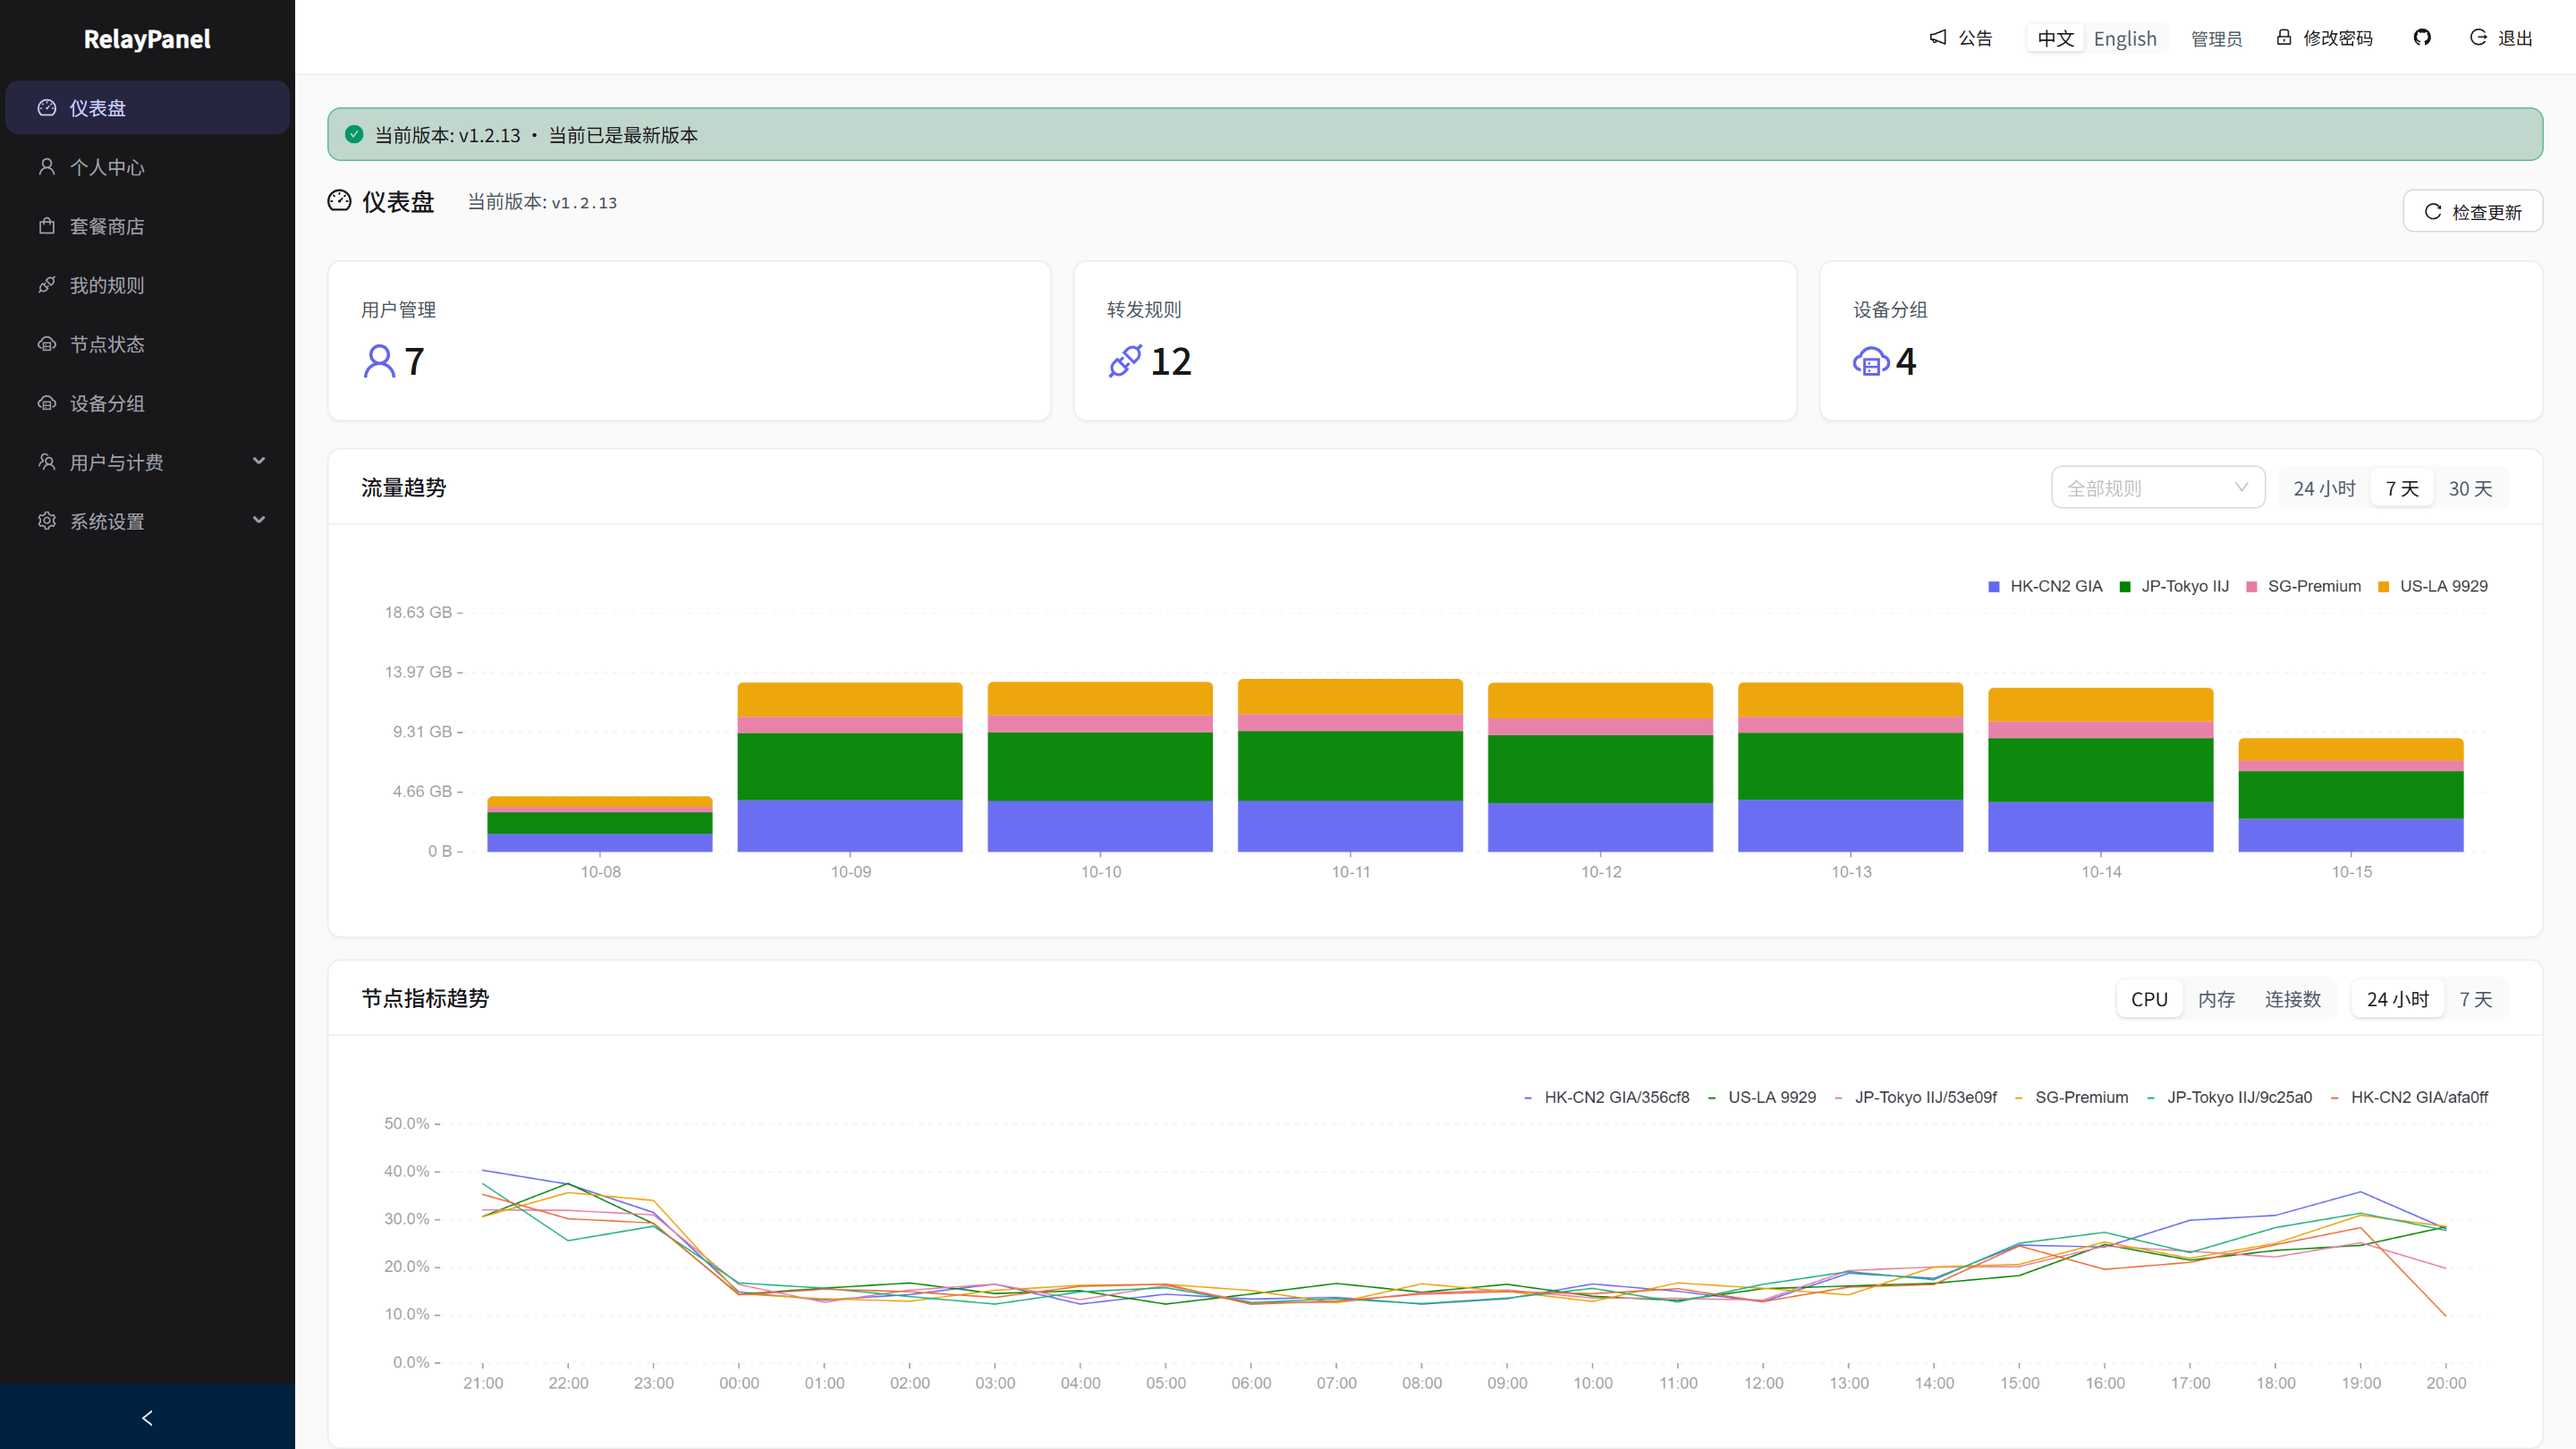
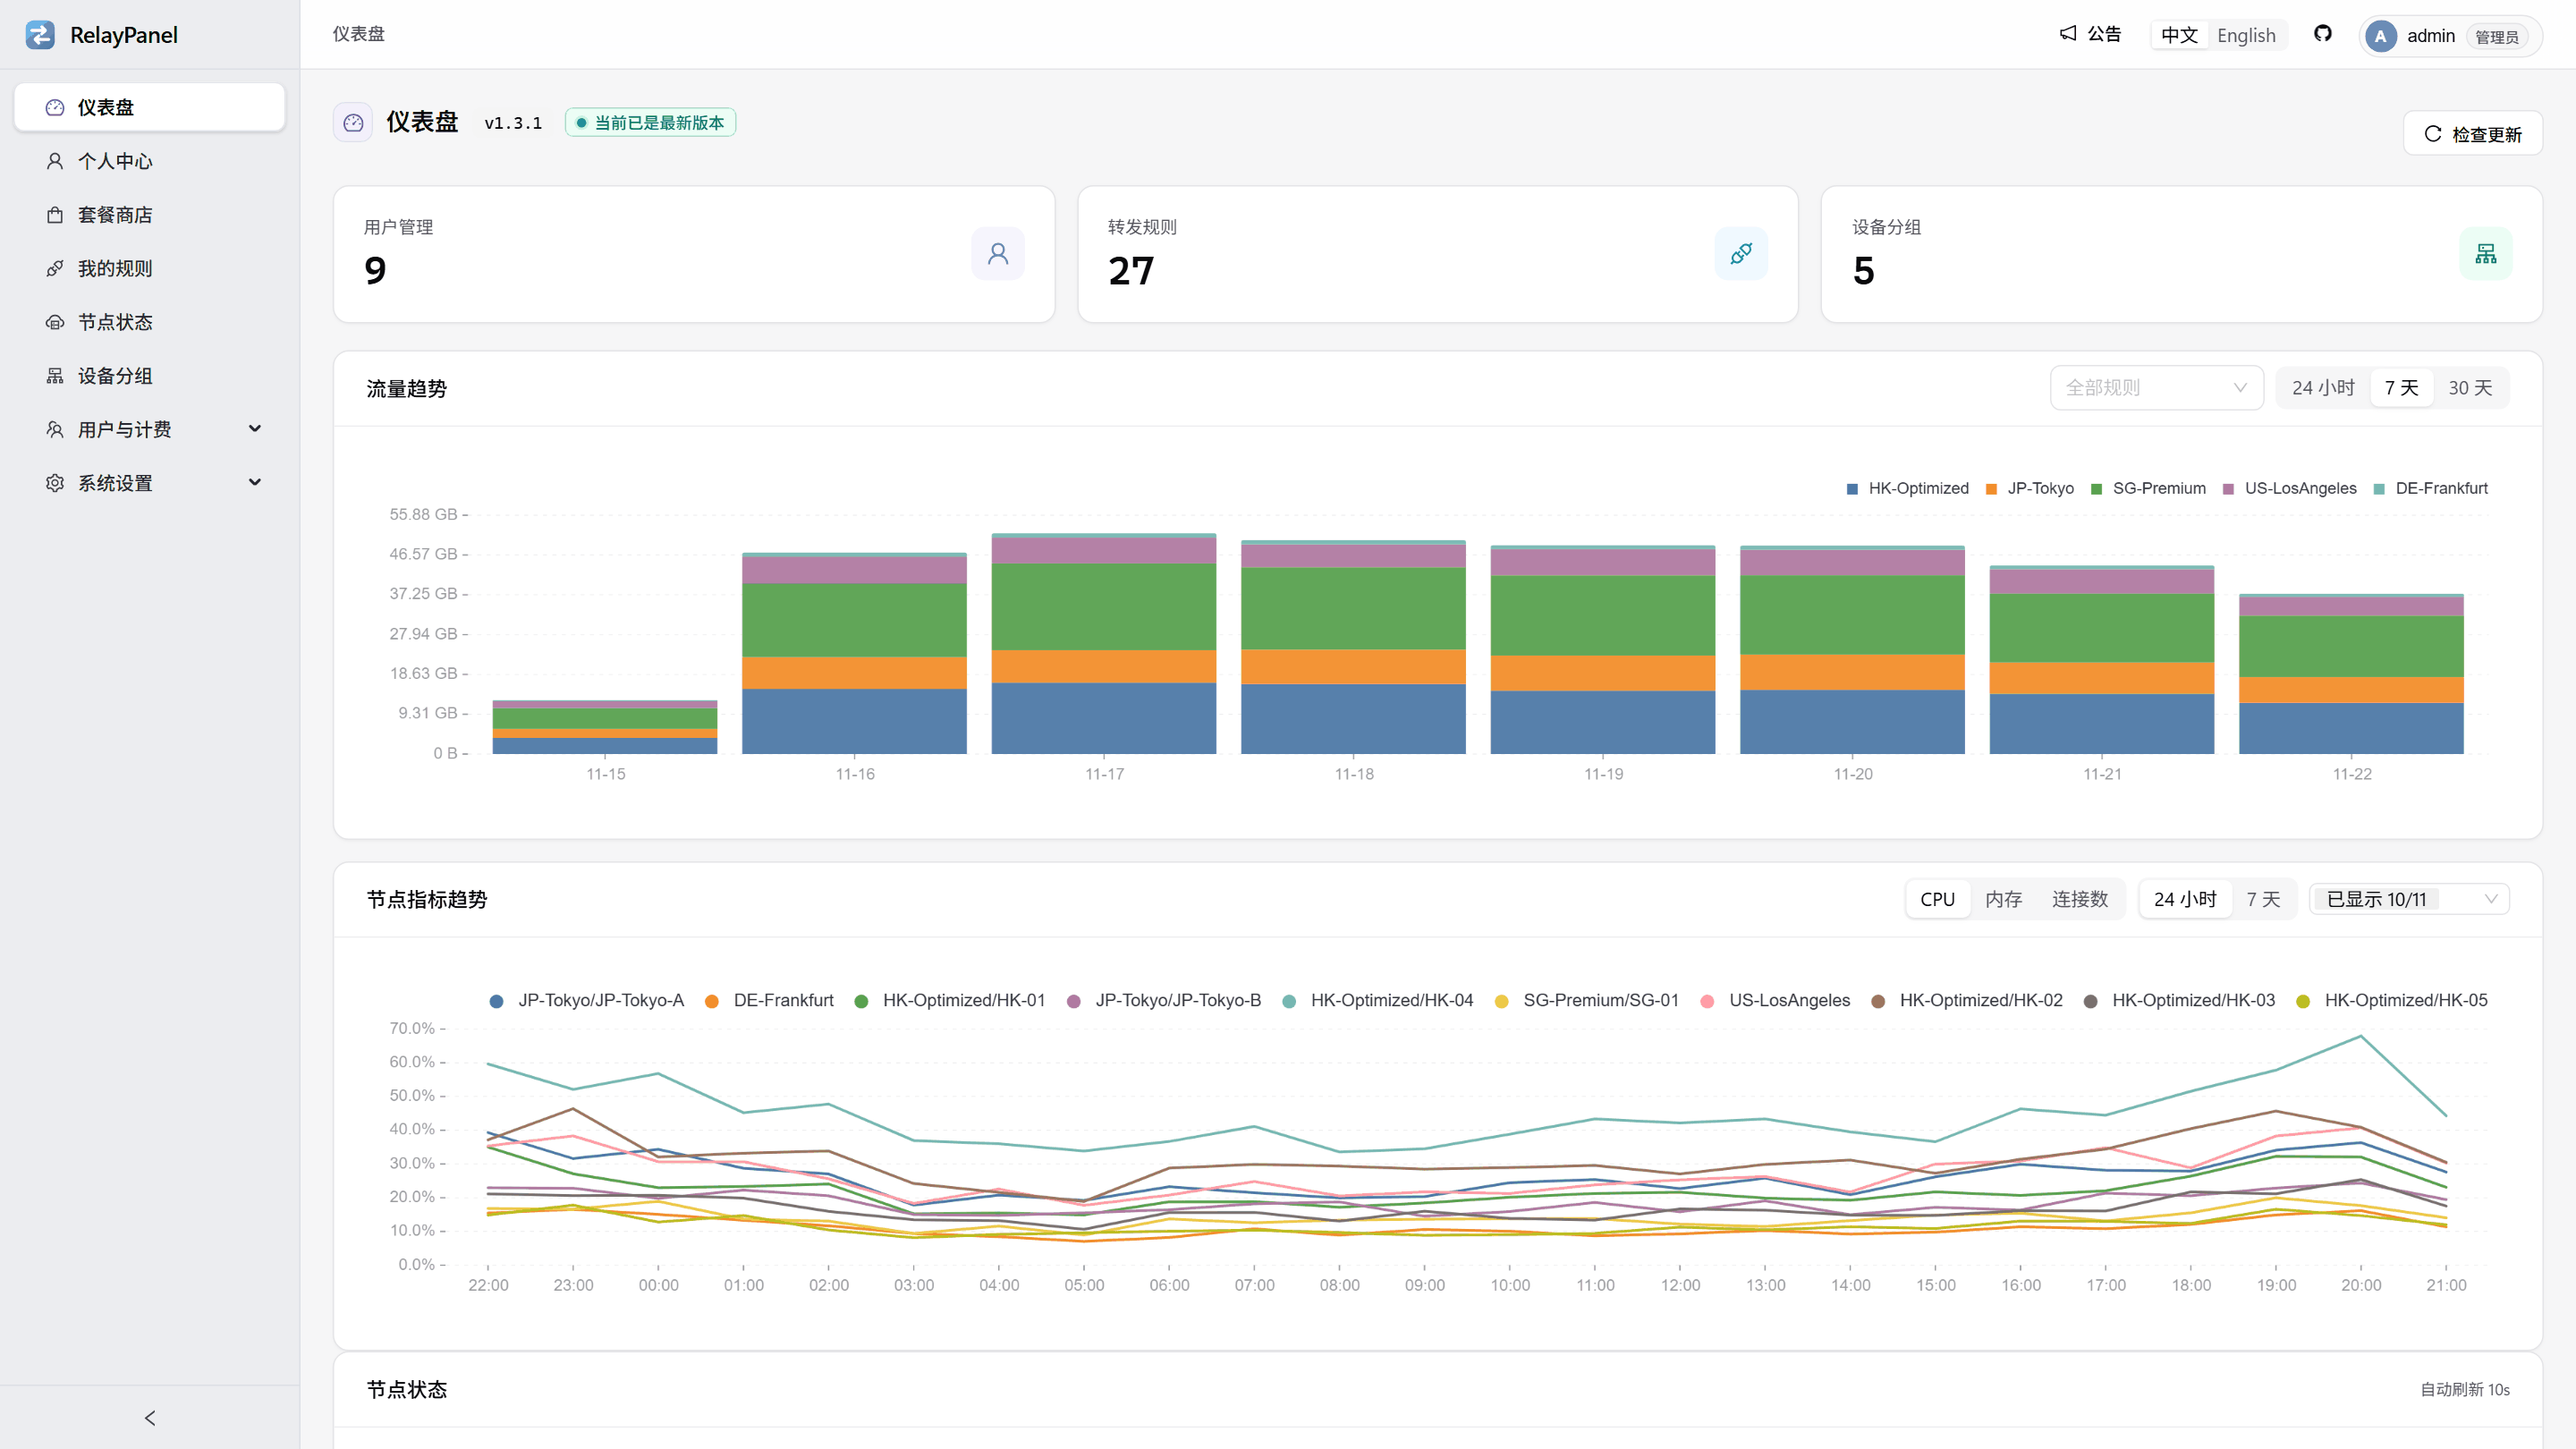
docs(readme): 1.3.1 screenshots, latency monitor and new-UI highlights
Retake all screenshots on the 1.3.1 UI (fictional demo data, documentation
address ranges only) and add the group latency page; list the latency monitor
and the redesigned UI among the highlights.

diff --git a/README.en.md b/README.en.md
@@ -33,8 +33,10 @@
 - 🛒 **Plans & billing** — self-service plan purchase and redeem-code top-ups; charged as `(upload + download) × line rate`; one plan per user, renewals stack and switching replaces
 - 📊 **Traffic visibility** — per-rule and per-user metering, with 1 / 7 / 30-day charts stacked by line so you can see which one is consuming the quota
 - 🖥 **Node management** — live CPU (with model) / memory / connections, region detection, Telegram or email alerts on offline, one-click upgrade from the panel (no SSH)
+- 📶 **Latency monitor** — each group's nodes probe carrier targets over TCP / ICMP for latency, loss and slow handshakes; a comparison matrix with a health overview and overall ranking, trend charts that can focus on one node, and recent-status strips that show when a line wobbled
 - 👤 **Users & groups** — manage any user's rules and plan, reset traffic or password, ban; device groups can be hidden, and removing a node doesn't affect rules
 - 🗄 **Deployment-friendly** — SQLite (zero-config) or PostgreSQL; panel and node both support amd64 / arm64; the panel works on a phone too
+- 🎨 **Redesigned UI** — a fresh look since v1.3.1, with a soft palette, clearer layout and one-click Chinese / English switching
 - 🔒 **Security** — first login forces password change; node auth via Bearer token
 
 Full feature reference and user docs: **[relaypanel.dev](https://relaypanel.dev)**
@@ -67,6 +69,12 @@ Full feature reference and user docs: **[relaypanel.dev](https://relaypanel.dev)
   <tr>
     <td><a href="docs/screenshots/en/shop.png"><img src="docs/screenshots/en/shop.png" alt="Shop" /></a></td>
     <td><a href="docs/screenshots/en/plans.png"><img src="docs/screenshots/en/plans.png" alt="Plans" /></a></td>
+  </tr>
+  <tr>
+    <th colspan="2">Latency Monitor</th>
+  </tr>
+  <tr>
+    <td colspan="2" align="center"><a href="docs/screenshots/en/latency.png"><img src="docs/screenshots/en/latency.png" alt="Latency Monitor" /></a></td>
   </tr>
 </table>
 

diff --git a/README.md b/README.md
@@ -32,8 +32,10 @@
 - 🛒 **套餐与计费** — 用户自助买套餐、卡密充值余额；按「(上行 + 下行) × 线路倍率」扣额度；一人一个当前套餐，续费叠加、换套餐整体替换
 - 📊 **流量可视** — 按规则 / 用户计量，近 1 / 7 / 30 天趋势图按线路分色堆叠，看得出是哪条线路在吃额度
 - 🖥 **节点管理** — 实时 CPU（含型号）/ 内存 / 连接数、地区识别、掉线推送 Telegram 或邮件、面板一键升级节点（免 SSH）
+- 📶 **延迟监控** — 每个分组的节点定时测三网 TCP / ICMP 延迟、丢包和慢握手；分组对比矩阵带健康度概览和综合排名，趋势图可以只看一台节点，近况色块一眼看出哪段时间在波动
 - 👤 **用户与分组** — 管理任意用户的规则与套餐、重置流量密码、封禁；设备分组可隐藏，节点卸载不影响规则
 - 🗄 **部署友好** — SQLite（零配置）或 PostgreSQL；面板与节点均支持 amd64 / arm64；面板手机上也能用
+- 🎨 **全新界面** — v1.3.1 起整体重新设计，配色柔和、信息层次更清楚，中英文一键切换
 - 🔒 **安全** — 首次登录强制改密码，节点 Bearer Token 鉴权
 
 完整功能说明与使用文档：**[relaypanel.dev](https://relaypanel.dev)**
@@ -66,6 +68,12 @@
   <tr>
     <td><a href="docs/screenshots/zh/shop.png"><img src="docs/screenshots/zh/shop.png" alt="套餐商店" /></a></td>
     <td><a href="docs/screenshots/zh/plans.png"><img src="docs/screenshots/zh/plans.png" alt="套餐管理" /></a></td>
+  </tr>
+  <tr>
+    <th colspan="2">延迟监控</th>
+  </tr>
+  <tr>
+    <td colspan="2" align="center"><a href="docs/screenshots/zh/latency.png"><img src="docs/screenshots/zh/latency.png" alt="延迟监控" /></a></td>
   </tr>
 </table>
 
